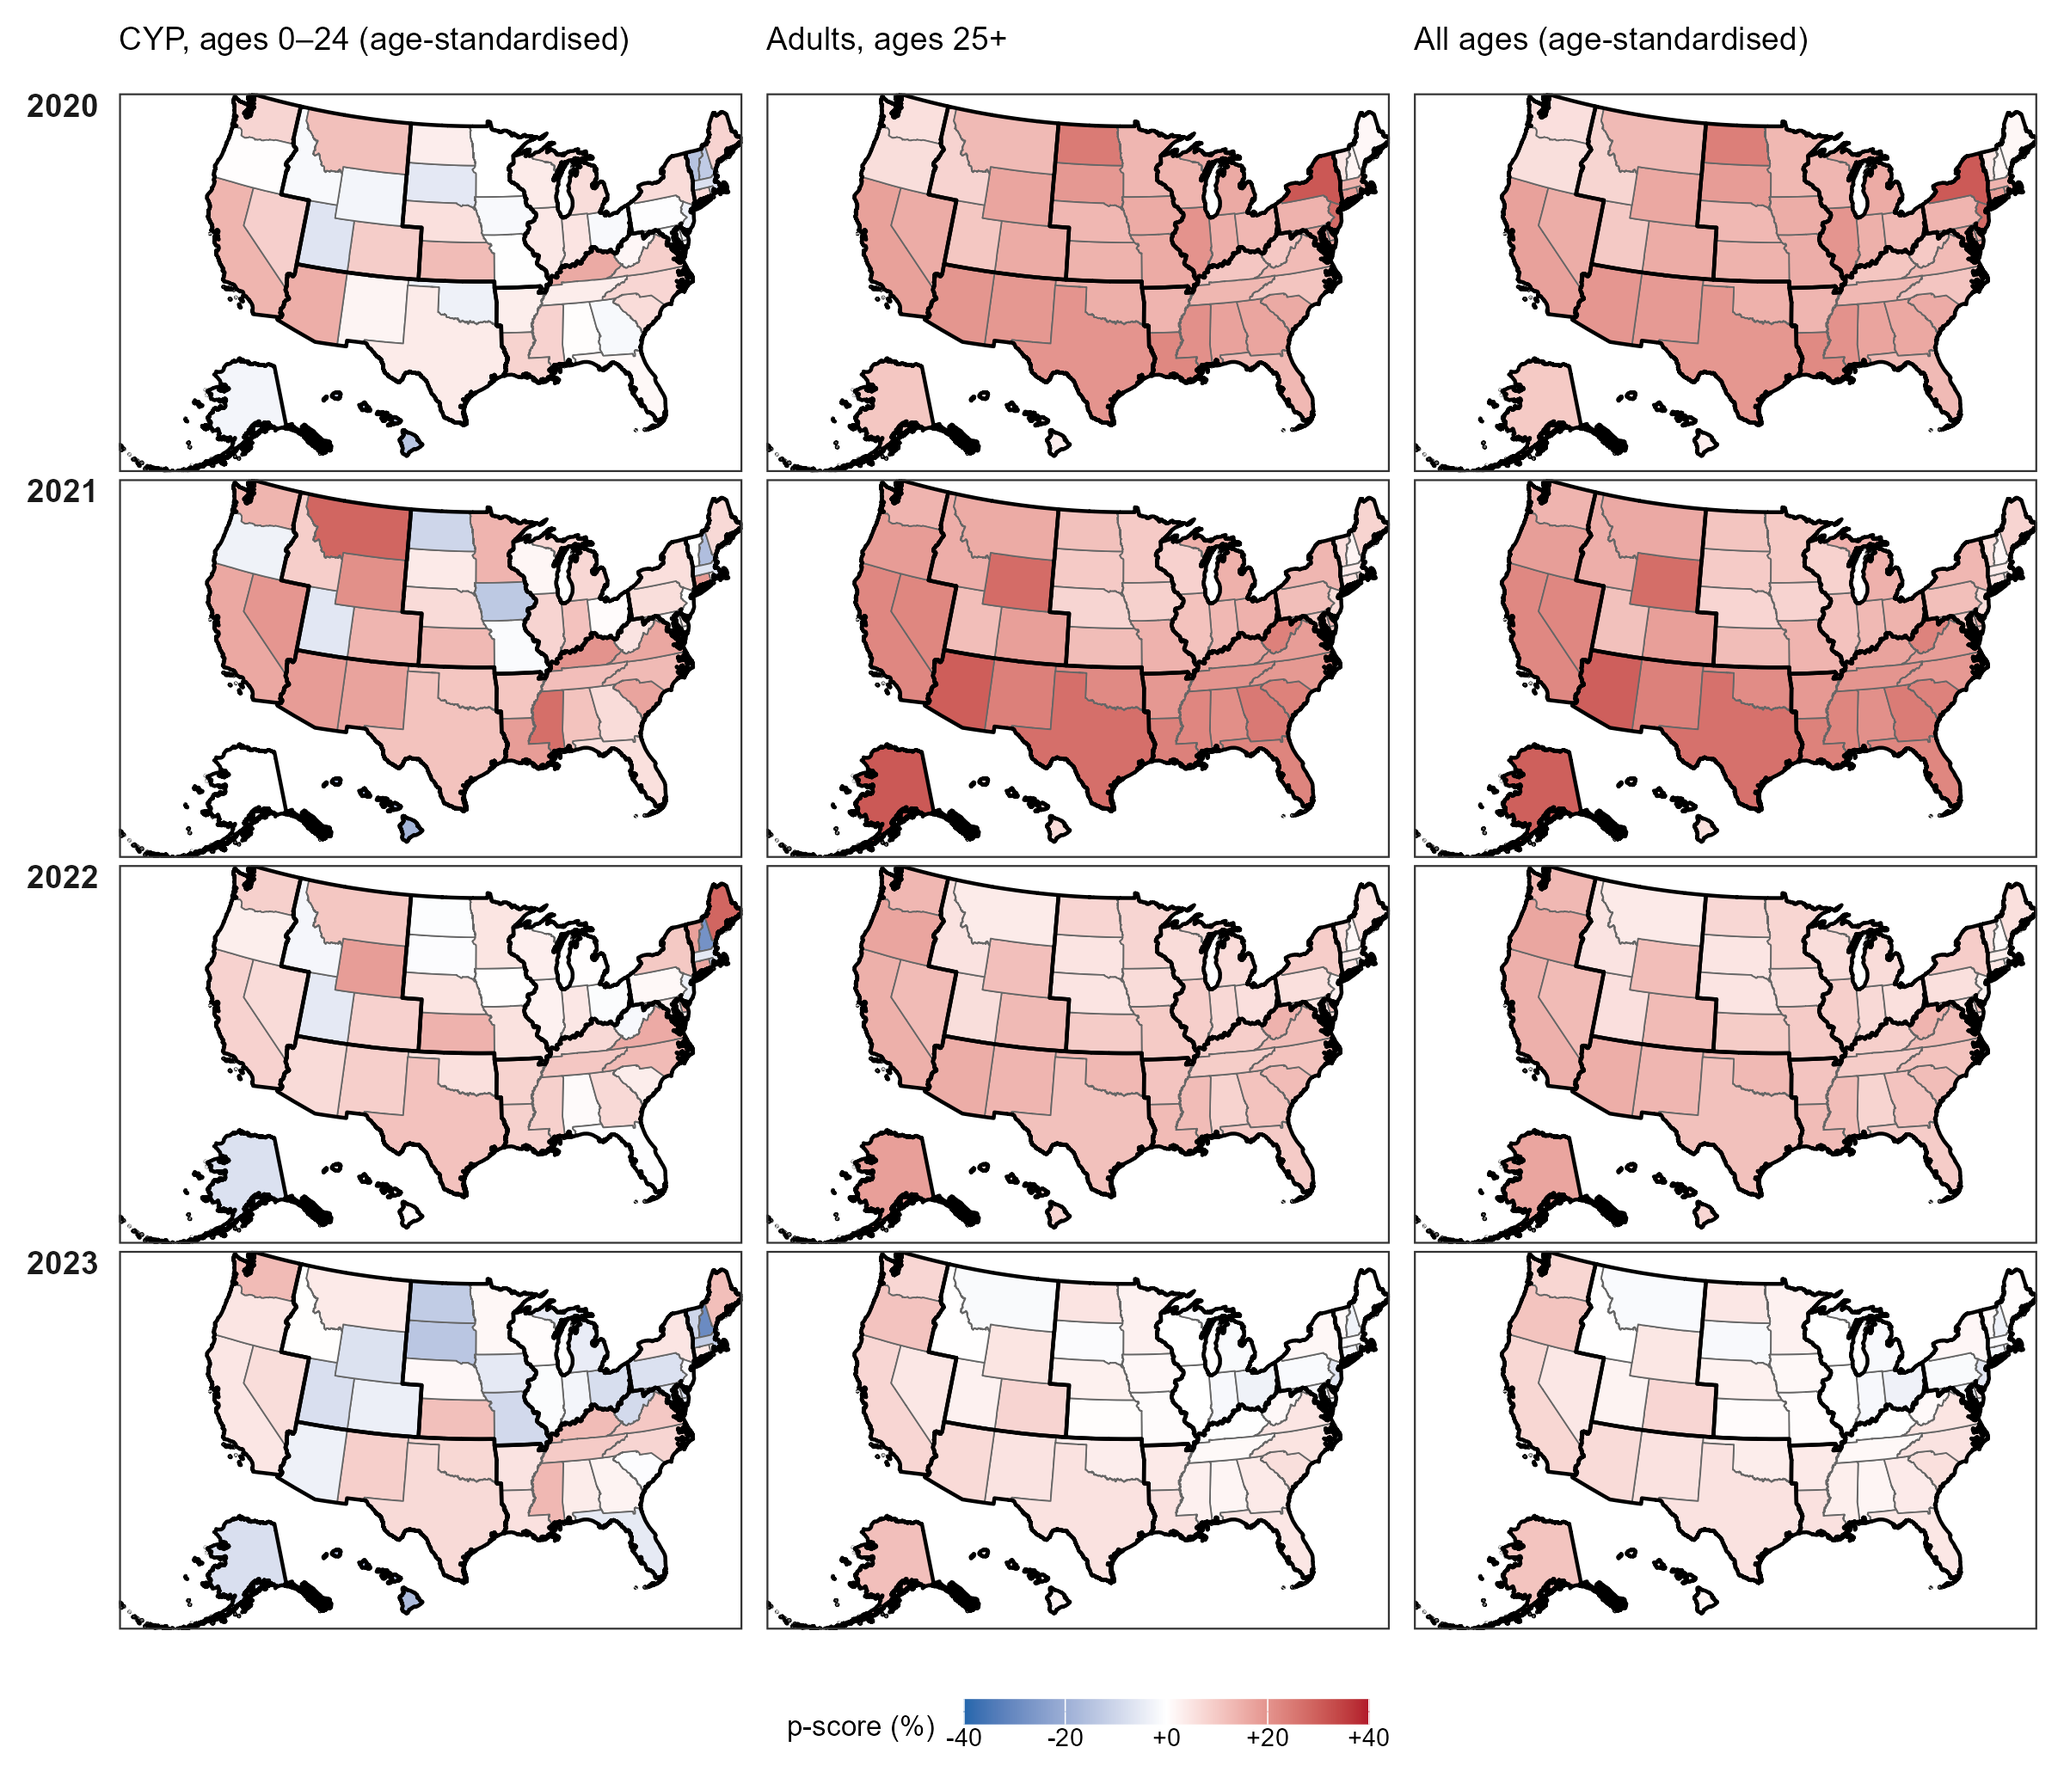
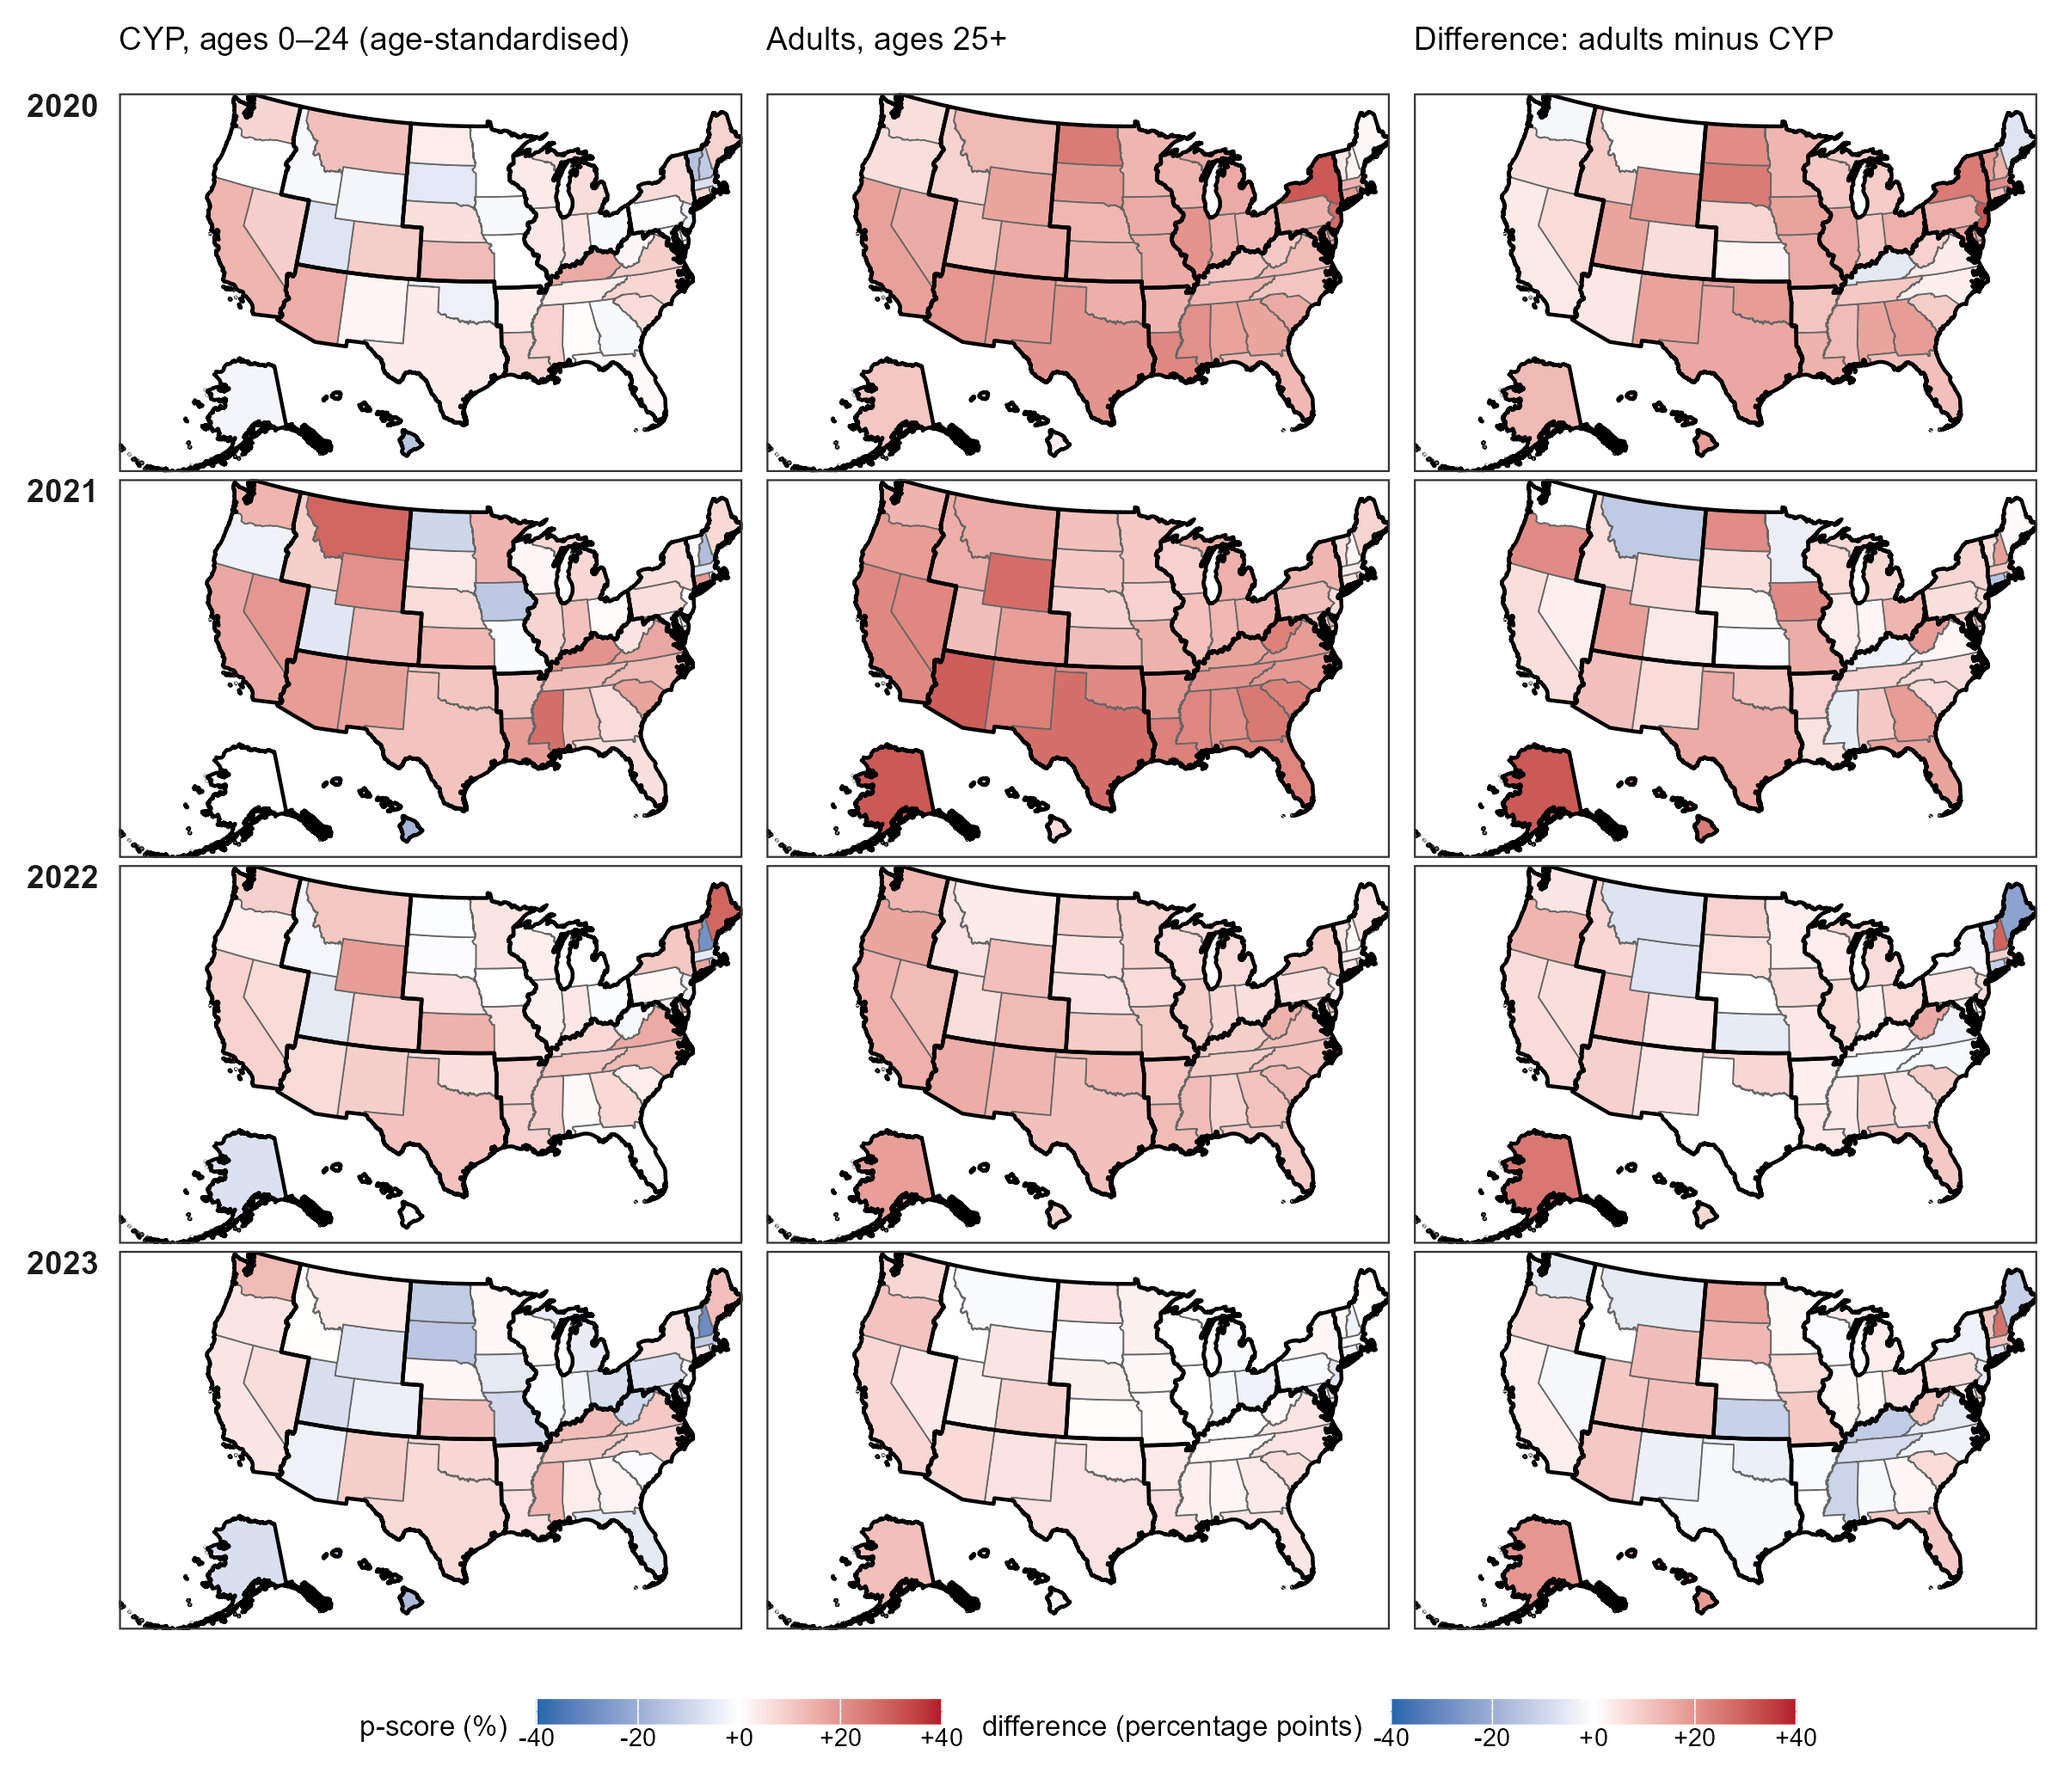
Figure 2 alternative A: third column is the adult minus CYP p-score difference

diff --git a/README.md b/README.md
@@ -34,7 +34,7 @@ Developed with R 4.6.1 on Windows; package versions are pinned in `renv.lock`.
 | `code/11_cyp_vs_all_ages_by_state.R` | `data_inter/cyp_vs_all_ages_by_state.rds`, `tables/tableS1_pscores_cyp_share_by_state.csv` | age-standardised p-scores by state for CYP, adults and all ages; CYP share of excess and of COVID-19 deaths; CYP p-score split into direct and indirect (Table S1; mapped by `alt_fig2_maps_by_state.R`) |
 | `code/alt_00_map_helpers.R` | — | map theme and drawing functions shared by the alternative maps |
 | `code/alt_fig1_by_age.R` | `figures/alternatives/fig1_altA_pscore_by_age.png`, `fig1_altB_total_direct_indirect_by_age.png` (+ `.csv`) | alternative versions of Figure 1: A, points (rates, p-scores on a log ratio axis, COVID-19/excess with its interval); B, total, direct (COVID-19 / expected) and indirect ((excess − COVID-19) / expected) p-scores by age plus stacked direct/indirect rates |
-| `code/alt_fig2_maps_by_state.R` | `figures/alternatives/fig2_altA_pscores_by_state.png`, `fig2_altB_cyp_pscore_diff_by_state.png`, `fig2_altC_cyp_share_by_state.png`, `fig2_altD_cyp_pscore_direct_indirect_by_state.png`, `fig2_altE_cyp_share_by_state_common_scale.png` | alternative versions of Figure 2: A, CYP/adult/all-age p-scores; B, CYP p-score minus US and minus all ages; C, CYP share of excess deaths, of COVID-19 deaths and of indirect excess; D, CYP p-score split into total, direct and indirect; E, as C on one common colour scale |
+| `code/alt_fig2_maps_by_state.R` | `figures/alternatives/fig2_altA_pscores_by_state.png`, `fig2_altB_cyp_pscore_diff_by_state.png`, `fig2_altC_cyp_share_by_state.png`, `fig2_altD_cyp_pscore_direct_indirect_by_state.png`, `fig2_altE_cyp_share_by_state_common_scale.png` | alternative versions of Figure 2: A, CYP and adult p-scores and their difference (adults minus CYP); B, CYP p-score minus US and minus all ages; C, CYP share of excess deaths, of COVID-19 deaths and of indirect excess; D, CYP p-score split into total, direct and indirect; E, as C on one common colour scale |
 | `code/12_explore_race_pscores.R` (exploratory, not in `run_all.R`) | `figures/alternatives/figR1_pscore_excess_by_race.png`, `figR2_pscore_by_race_age.png`, `figR3_direct_indirect_by_race.png` (+ `.csv`) | p-scores and excess rates by race/ethnicity, 0–24; needs `data_input/all_cause_race/` (WONDER API, see its README) |
 
 Every figure is accompanied by a `.csv` with the plotted values. `data_inter/` is fully regenerated by scripts 01–04 but the (small) files are committed so that figures can be redrawn without rerunning the models.
